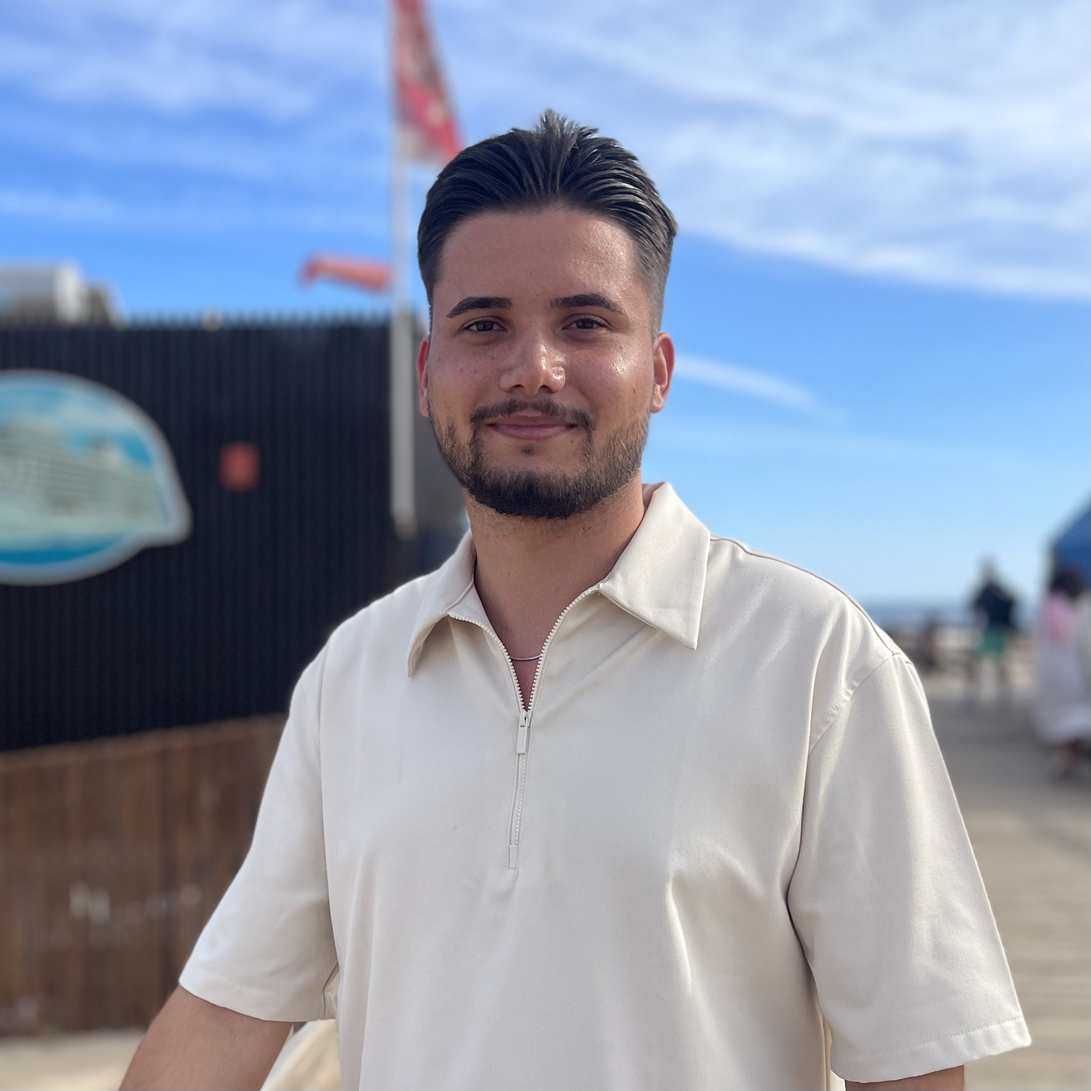
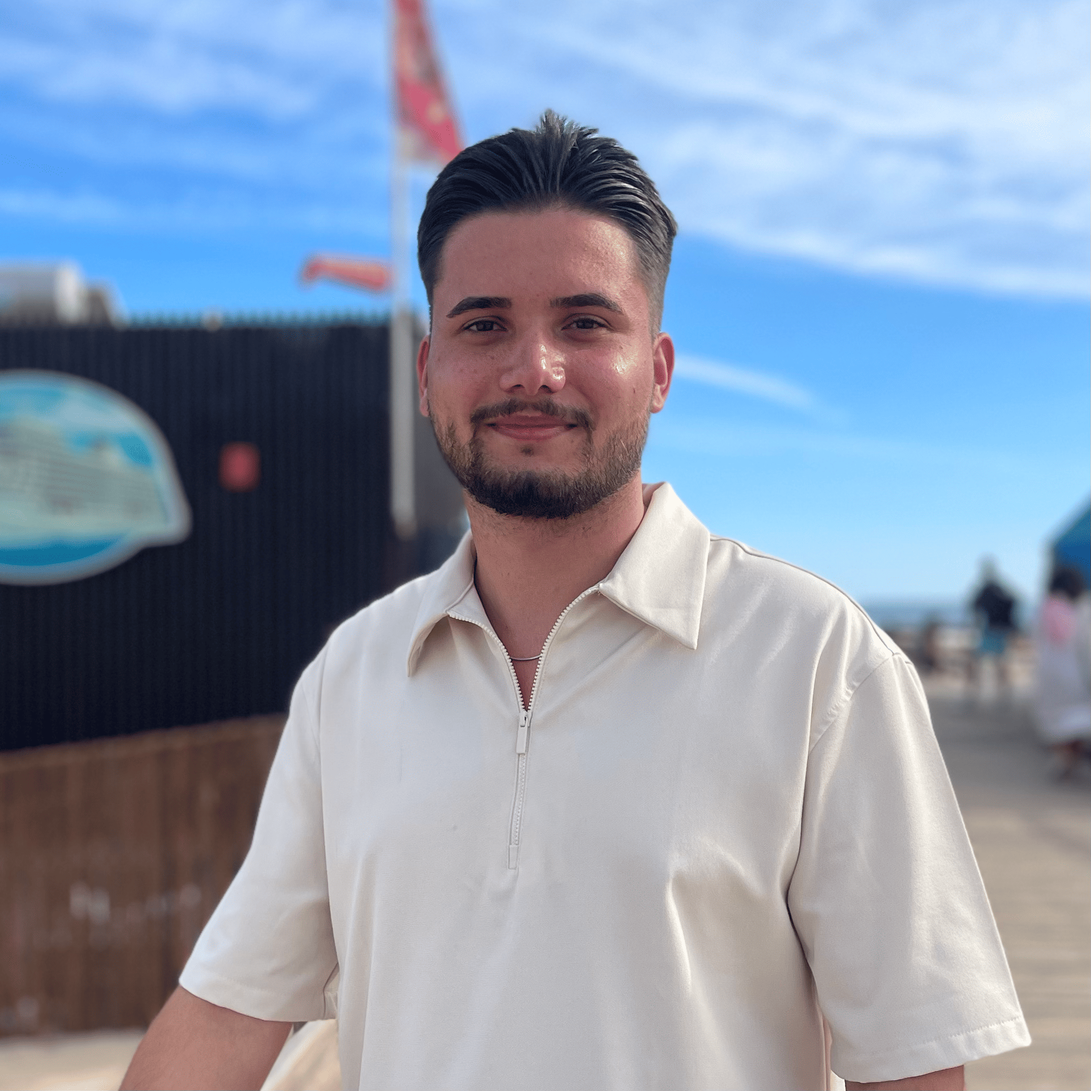
teste de idade

diff --git a/index.html b/index.html
@@ -378,7 +378,7 @@
 
                       <div class="about-info mt-3" style="margin-bottom: 45px;">
                         <p><span class="title-s" style="font-size: 1.1em;">Nome:</span> Michael Teixeira Nunes</p>
-                        <p><span class="title-s" style="font-size: 1.1em;">Idade:</span> 25</p>
+                        <p><span class="title-s" style="font-size: 1.1em;">Idade:</span> 26</p>
                         <p><span class="title-s" style="font-size: 1.1em;">Perfil:</span> Modern Digital Workplace — SBM Offshore</p>
                         <p><span class="title-s" style="font-size: 1.1em;">Email:</span>
                           michael.teixeiranunes@outlook.com</p>
